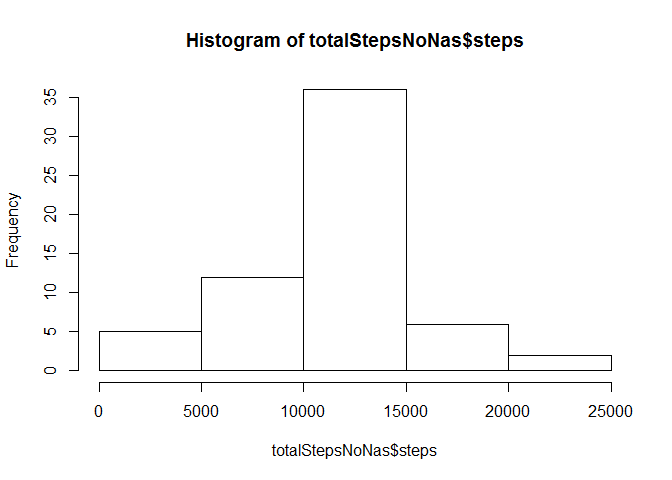
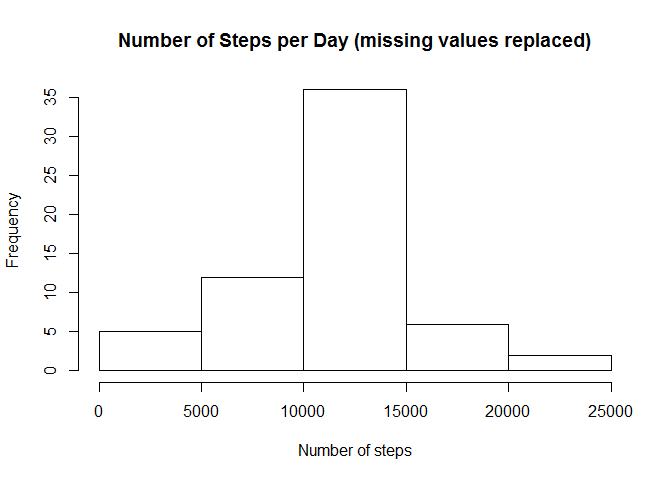
Updated second histogram

Changed region(s): [[0.1562, 0.0625, 0.875, 0.125], [0.4062, 0.9062, 0.6562, 0.9688]]

diff --git a/PA1_template.html b/PA1_template.html
@@ -111,8 +111,8 @@ stepsNoNas[is.na(steps$steps),]$steps =
   sapply(steps[is.na(steps$steps),]$interval, function(x) round(avgIntvlSteps[avgIntvlSteps$interval == x,]$steps,0))</code></pre>
 <p>Show a histogram of the total number of steps per day.</p>
 <pre class="r"><code>totalStepsNoNas = stepsNoNas %&gt;% group_by(date1) %&gt;% summarise(steps=sum(steps, na.rm=TRUE)) %&gt;% arrange(date1)
-hist(totalStepsNoNas$steps)</code></pre>
[1 lines of base64/hex data omitted]
+hist(totalStepsNoNas$steps, main=&quot;Number of Steps per Day (missing values replaced)&quot;, xlab=&quot;Number of steps&quot;)</code></pre>
[1 lines of base64/hex data omitted]
 <p>Compute the mean and median of the number of steps per day.</p>
 <pre class="r"><code>meanStepsNoNas = as.integer(round(mean(totalStepsNoNas$steps),0))
 medianStepsNoNas = as.integer(round(median(totalStepsNoNas$steps),0))

diff --git a/PA1_template.md b/PA1_template.md
@@ -98,7 +98,7 @@ Show a histogram of the total number of steps per day.
 
 ```r
 totalStepsNoNas = stepsNoNas %>% group_by(date1) %>% summarise(steps=sum(steps, na.rm=TRUE)) %>% arrange(date1)
-hist(totalStepsNoNas$steps)
+hist(totalStepsNoNas$steps, main="Number of Steps per Day (missing values replaced)", xlab="Number of steps")
 ```
 
 ![](PA1_template_files/figure-html/unnamed-chunk-9-1.png) 
